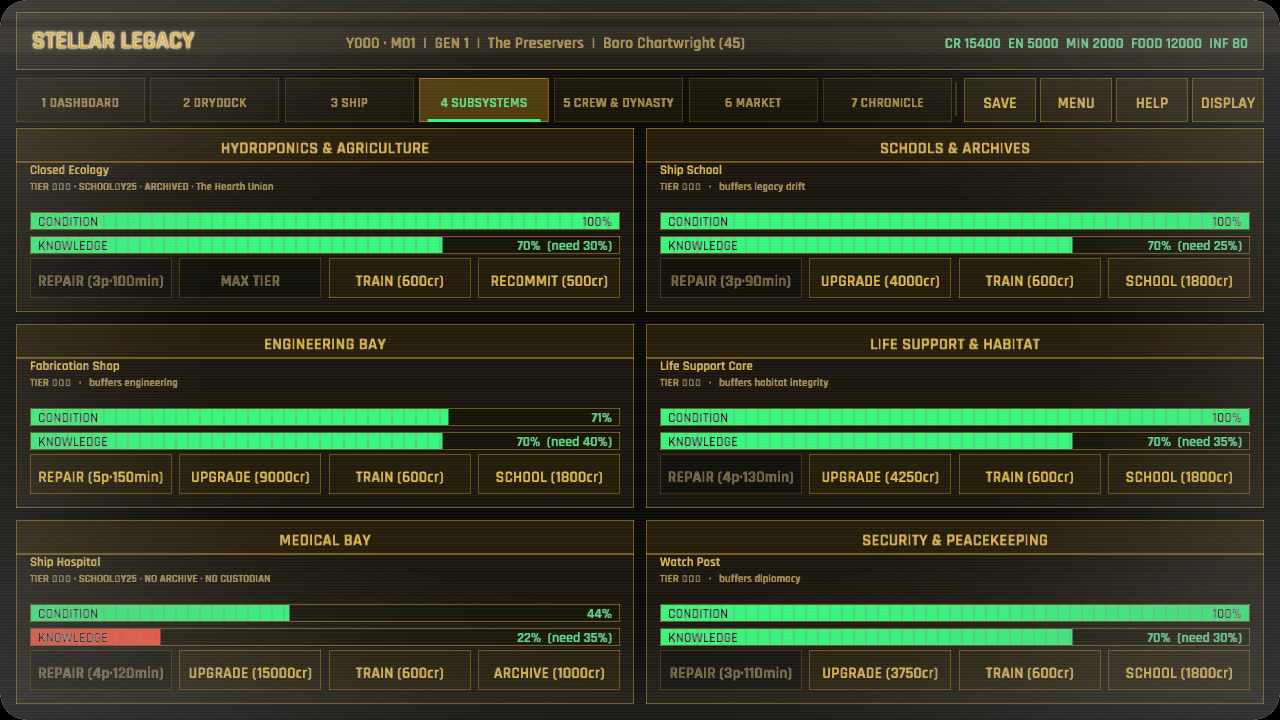
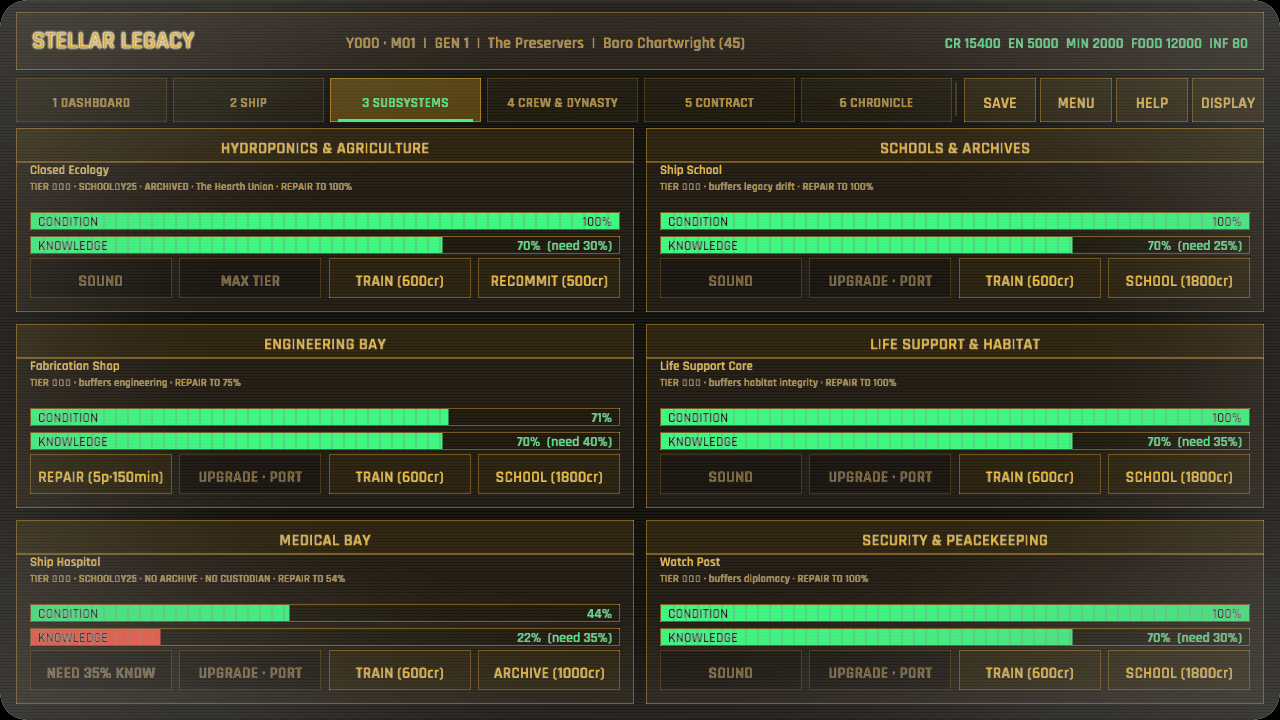
Every repair names the hull it can actually restore (subsystem maintenance forecast)
The maintenance grid named repair costs but concealed the result. That was especially misleading under way, where the field ceiling and the Engineering Bay's own condition can turn the same spend into a much weaker patch. Disabled repair controls also gave no immediate reason.\n\nA shared simulation projection now calculates the exact post-repair condition and the verb consumes that same value. Each subsystem card shows the projected condition, while blocked controls name whether the module is sound, the procedure is forgotten, or stores are short. The underway verification scene exercises capped and engineering-weakened repairs, and a regression test proves the displayed projection matches the applied result.

diff --git a/src/simulation/subsystems/verbs.rs b/src/simulation/subsystems/verbs.rs
@@ -6,6 +6,31 @@ use crate::state::sim::SimState;
 
 use super::effects::education_training_factor;
 
+/// Condition a successful repair would leave behind right now. This is the
+/// single projection used by both the verb and the maintenance UI, including
+/// the field ceiling and the Engineering Bay's effect on underway work.
+pub fn repair_target_condition(sim: &SimState, data: &GameData, id: &str) -> Option<f32> {
+    let current = sim.subsystems.get(id)?.condition;
+    let ceiling = if sim.contract.is_none() {
+        1.0
+    } else {
+        data.config.repair.field_ceiling
+    };
+    if current >= ceiling {
+        return Some(current);
+    }
+    if sim.contract.is_none() {
+        return Some(ceiling);
+    }
+    let eng = sim
+        .subsystems
+        .get("engineering_bay")
+        .map_or(1.0, |state| state.condition);
+    let effectiveness =
+        (1.0 - data.config.subsystems.engineering_field_repair_penalty * (1.0 - eng)).max(0.0);
+    Some((current + data.config.repair.field_gain * effectiveness).min(ceiling))
+}
+
 /// Repair a subsystem (W5), underway or in port. Requires living expertise —
 /// knowledge >= the subsystem's threshold — then spends parts + minerals to
 /// restore condition (field ceiling underway, whole in port).
@@ -30,6 +55,9 @@ pub fn repair_subsystem(sim: &mut SimState, data: &GameData, id: &str) -> Result
     if current >= ceiling {
         return Err("It is already as sound as this can make it here.".to_owned());
     }
+    let name = def.name.clone();
+    let restored = repair_target_condition(sim, data, id)
+        .ok_or_else(|| format!("The {name} is not fitted aboard this ship."))?;
     let minerals = ResourceDelta {
         minerals: -def.repair_minerals_cost,
         ..Default::default()
@@ -39,21 +67,6 @@ pub fn repair_subsystem(sim: &mut SimState, data: &GameData, id: &str) -> Result
     }
     sim.resources.apply(&minerals);
     sim.ship.spare_parts -= def.repair_parts_cost;
-    let restored = if in_port {
-        1.0
-    } else {
-        // A field repair is only as good as the bay it is made with (content-depth subsystems round
-        // 34): the engineering bay's condition scales the underway gain, so a failing bay can only
-        // patch. Dock repairs (above) go whole regardless — full facilities in port.
-        let eng = sim
-            .subsystems
-            .get("engineering_bay")
-            .map_or(1.0, |s| s.condition);
-        let effectiveness =
-            (1.0 - data.config.subsystems.engineering_field_repair_penalty * (1.0 - eng)).max(0.0);
-        (current + data.config.repair.field_gain * effectiveness).min(ceiling)
-    };
-    let name = def.name.clone();
     if let Some(state) = sim.subsystems.get_mut(id) {
         state.condition = restored;
     }

diff --git a/src/ui/subsystems.rs b/src/ui/subsystems.rs
@@ -3,6 +3,7 @@
 //! Train verbs. Pure view: it reads `&SimState` and emits `UiAction` only.
 
 use crate::data::GameData;
+use crate::simulation::subsystems::repair_target_condition;
 use crate::state::sim::factions::steward_decay_factor;
 use crate::ui::{term, term_bar, term_button, term_panel, GameplayCtx, UiAction};
 use macroquad::prelude::*;
@@ -81,8 +82,10 @@ fn draw_card(
         .procedure_archives
         .iter()
         .any(|archive| archive.subsystem_id == id);
+    let repair_target = repair_target_condition(ctx.sim, ctx.data, id).unwrap_or(state.condition);
+    let mend = format!("REPAIR TO {:.0}%", repair_target * 100.0);
     let detail = school.map_or_else(
-        || format!("TIER {pips}   ·   buffers {family}"),
+        || format!("TIER {pips} · buffers {family} · {mend}"),
         |school| {
             let support = if school.supported_until_year >= ctx.sim.year() {
                 format!("SCHOOL→Y{}", school.supported_until_year)
@@ -96,7 +99,7 @@ fn draw_card(
                 .and_then(|faction_id| ctx.data.factions.get(faction_id))
                 .map(|faction| faction.name.as_str())
                 .unwrap_or("NO CUSTODIAN");
-            format!("TIER {pips} · {support} · {archive} · {custodian}")
+            format!("TIER {pips} · {support} · {archive} · {custodian} · {mend}")
         },
     );
     draw_ui_text_ex(
@@ -171,12 +174,26 @@ fn draw_card(
         && state.condition < ceiling
         && ctx.sim.ship.spare_parts >= def.repair_parts_cost
         && ctx.sim.resources.minerals >= def.repair_minerals_cost;
-    if term_button(
-        Rect::new(content.x, by, bw, 40.0),
-        &format!(
+    let repair_label = if !can_mend {
+        format!("NEED {:.0}% KNOW", def.repair_knowledge_required * 100.0)
+    } else if state.condition >= ceiling {
+        "SOUND".to_owned()
+    } else if ctx.sim.ship.spare_parts < def.repair_parts_cost
+        || ctx.sim.resources.minerals < def.repair_minerals_cost
+    {
+        format!(
+            "NEED {}p·{}min",
+            def.repair_parts_cost, def.repair_minerals_cost
+        )
+    } else {
+        format!(
             "REPAIR ({}p·{}min)",
             def.repair_parts_cost, def.repair_minerals_cost
-        ),
+        )
+    };
+    if term_button(
+        Rect::new(content.x, by, bw, 40.0),
+        &repair_label,
         repair_ok,
         pointer,
     ) {

diff --git a/src/game/capture_scenes.rs b/src/game/capture_scenes.rs
@@ -263,8 +263,8 @@ impl Game {
                 self.state = self.underway_blueprint_state(Some("habitat_ring"))
             }
             "subsystems" => {
-                // The subsystems screen (W5) with mixed tiers, worn condition,
-                // and a knowledge stat dipping below a repair threshold.
+                // The underway subsystems screen (W5) with mixed tiers, worn
+                // condition, and knowledge dipping below a repair threshold.
                 let mut sim = SimState::new_campaign(
                     &self.data,
                     "preservers",
@@ -306,6 +306,9 @@ impl Game {
                     &self.data,
                     "medical_bay",
                 );
+                if let Some(template) = self.data.contracts.get("deep_vein_survey") {
+                    sim.contract = Some(contract::start_contract(template, &sim));
+                }
                 let mut gameplay = GameplayState::new(sim);
                 gameplay.screen = Screen::Subsystems;
                 self.state = crate::state::GameState::Gameplay(Box::new(gameplay));

diff --git a/src/simulation/subsystems/tests/verbs.rs b/src/simulation/subsystems/tests/verbs.rs
@@ -95,6 +95,24 @@ fn a_sound_engineering_bay_makes_a_better_field_repair() {
 }
 
 #[test]
+fn the_repair_projection_matches_the_condition_the_verb_delivers() {
+    let (data, mut sim) = campaign(16);
+    let template = data.contracts.get("deep_vein_survey").unwrap().clone();
+    sim.contract = Some(crate::simulation::contract::start_contract(&template, &sim));
+    sim.resources.minerals = 100_000;
+    sim.ship.spare_parts = 100;
+    sim.subsystems.get_mut("medical_bay").unwrap().condition = 0.31;
+    sim.subsystems.get_mut("medical_bay").unwrap().knowledge = 0.9;
+    sim.subsystems.get_mut("engineering_bay").unwrap().condition = 0.42;
+
+    let projected = repair_target_condition(&sim, &data, "medical_bay").unwrap();
+    repair_subsystem(&mut sim, &data, "medical_bay").unwrap();
+
+    assert_eq!(sim.subsystems["medical_bay"].condition, projected);
+    assert!(projected < data.config.repair.field_ceiling);
+}
+
+#[test]
 fn a_stronger_medical_bay_softens_biology_damage() {
     let (data, mut sim) = campaign(3);
 
